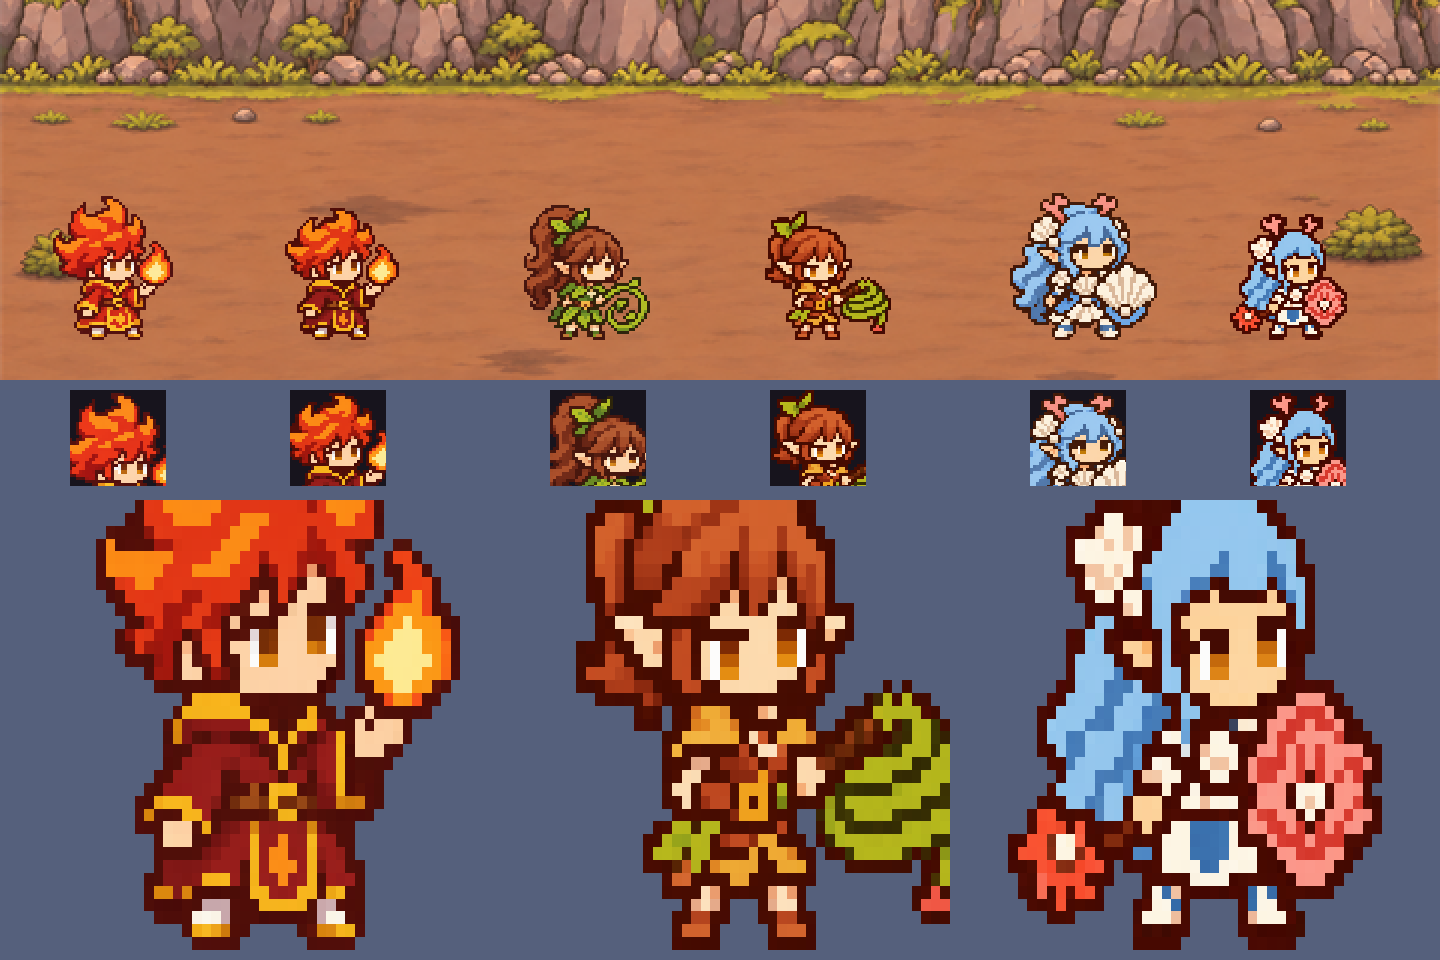
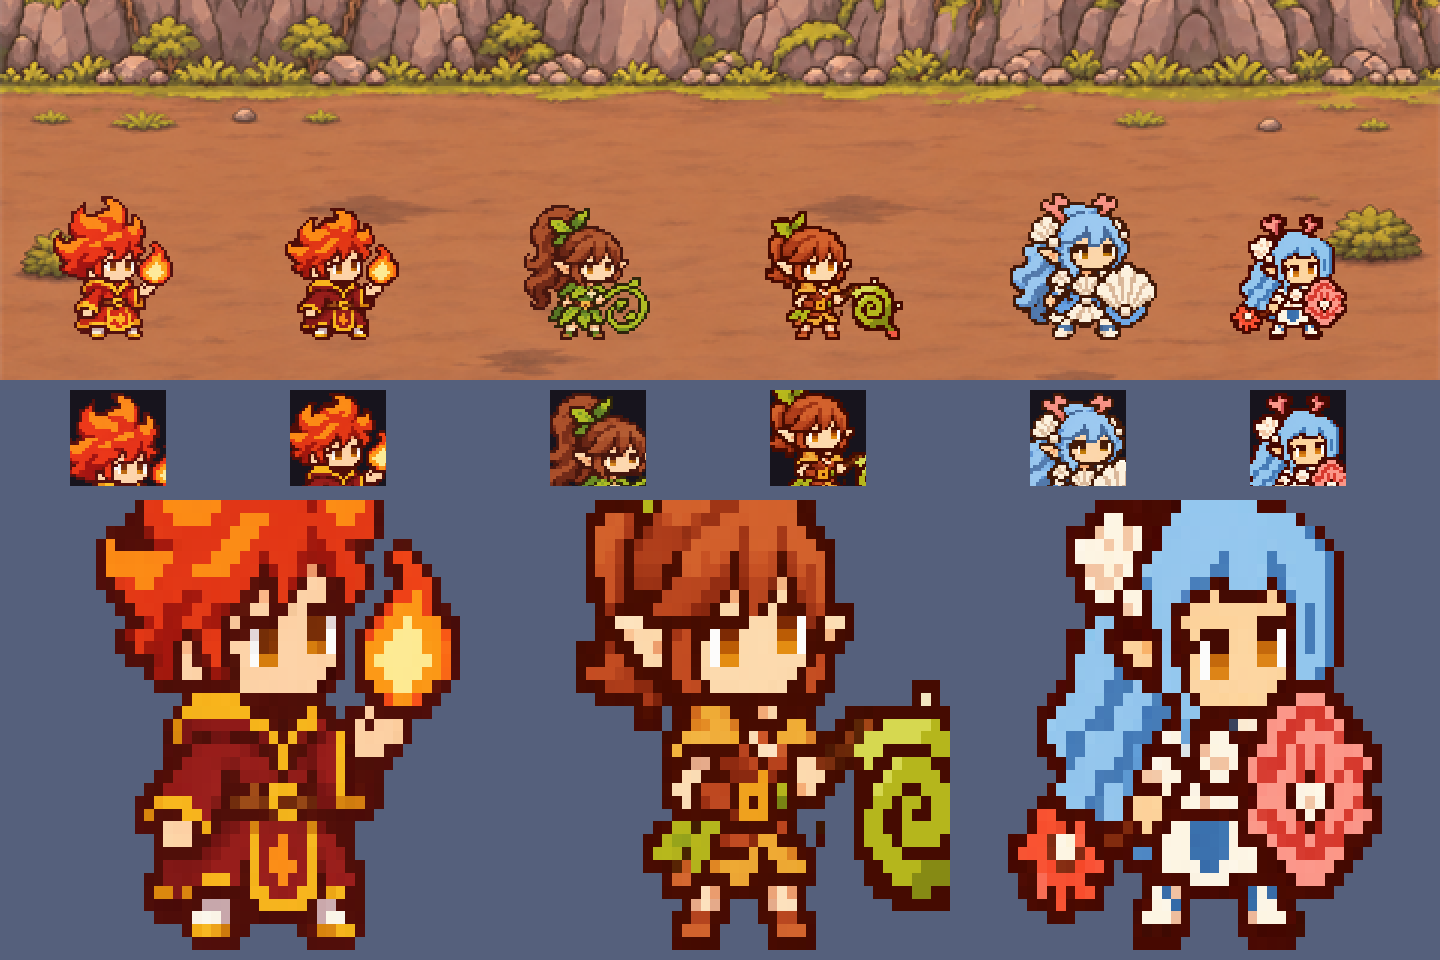
아이비 턱선·@ 채찍, 코라 옆머리·뿔 2톤 시안, 영웅 기준 스킬 추가

diff --git a/개발일지/2026-11-28/이미지.md b/개발일지/2026-11-28/이미지.md
@@ -31,3 +31,15 @@
 
 - 결과: 눈 점 수·오른쪽 얼굴선·앞머리 선을 점으로 확인, 전장 배경 합성 확인. 기사 그림 자체는 눈이 3줄·2줄이라(그대로 둠) 코덱스가 따라 그리는 원인. 게임에 넣어 보지 않음. 사용자 확인 대기.
 - 그림: img/codex/redo3/final11.png
+
+## [디자인] 턱선·@ 채찍·옆머리 볼륨·뿔 2톤 (아이비·코라 시안)
+- 한 것: 아이비 눈을 1점 올려 턱선을 블레이즈와 같게, 채찍을 @ 소용돌이로 점으로 직접 그림(`img/codex/redo3/vine_new12.png`). 코라 오른쪽 옆머리를 4점 너비로, 뿔에 그림자 톤, 턱 2점 수정(`coral_new12.png`). 기준을 `game-art-hero` 스킬에 추가. 게임 그림은 안 바꿈.
+- 의도: "왼쪽 눈은 끝지점과 턱선이 다 3칸씩이어야돼" / "채찍은 @ 이렇게 말려져있어" / "3~4칸까지는 너비차지해야돼 볼륨감때문에" / "코라 뿔 1톤만쓰네? ... 적어도 2는써야"
+- 숫자:
+
+| 눈 밑 살색(왼쪽 / 오른쪽 안→바깥) | 블레이즈 | 아이비 | 코라 |
+|---|---|---|---|
+| 고친 뒤 | 2·2·2 / 3·2·1 | 2·2·2 / 3·2·1 | 2·2·2 / 3·2·1 |
+
+- 결과: 점 단위 확대와 전장 배경 합성으로 확인. 게임에 넣어 보지 않음. 사용자 확인 대기.
+- 그림: img/codex/redo3/final12.png
